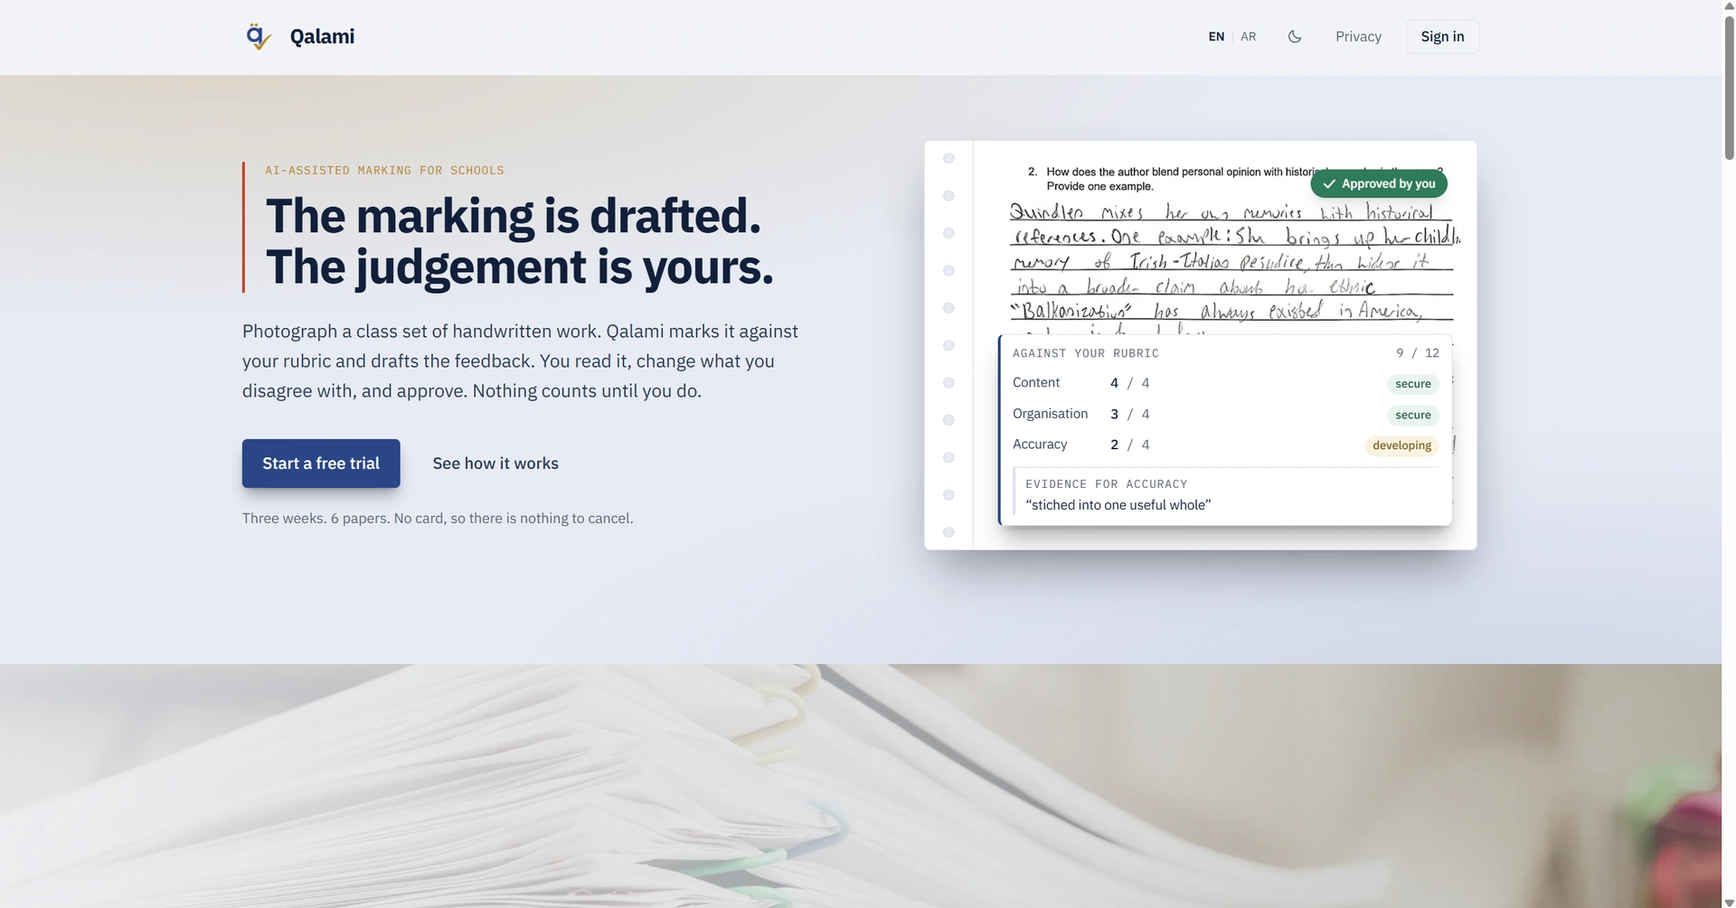
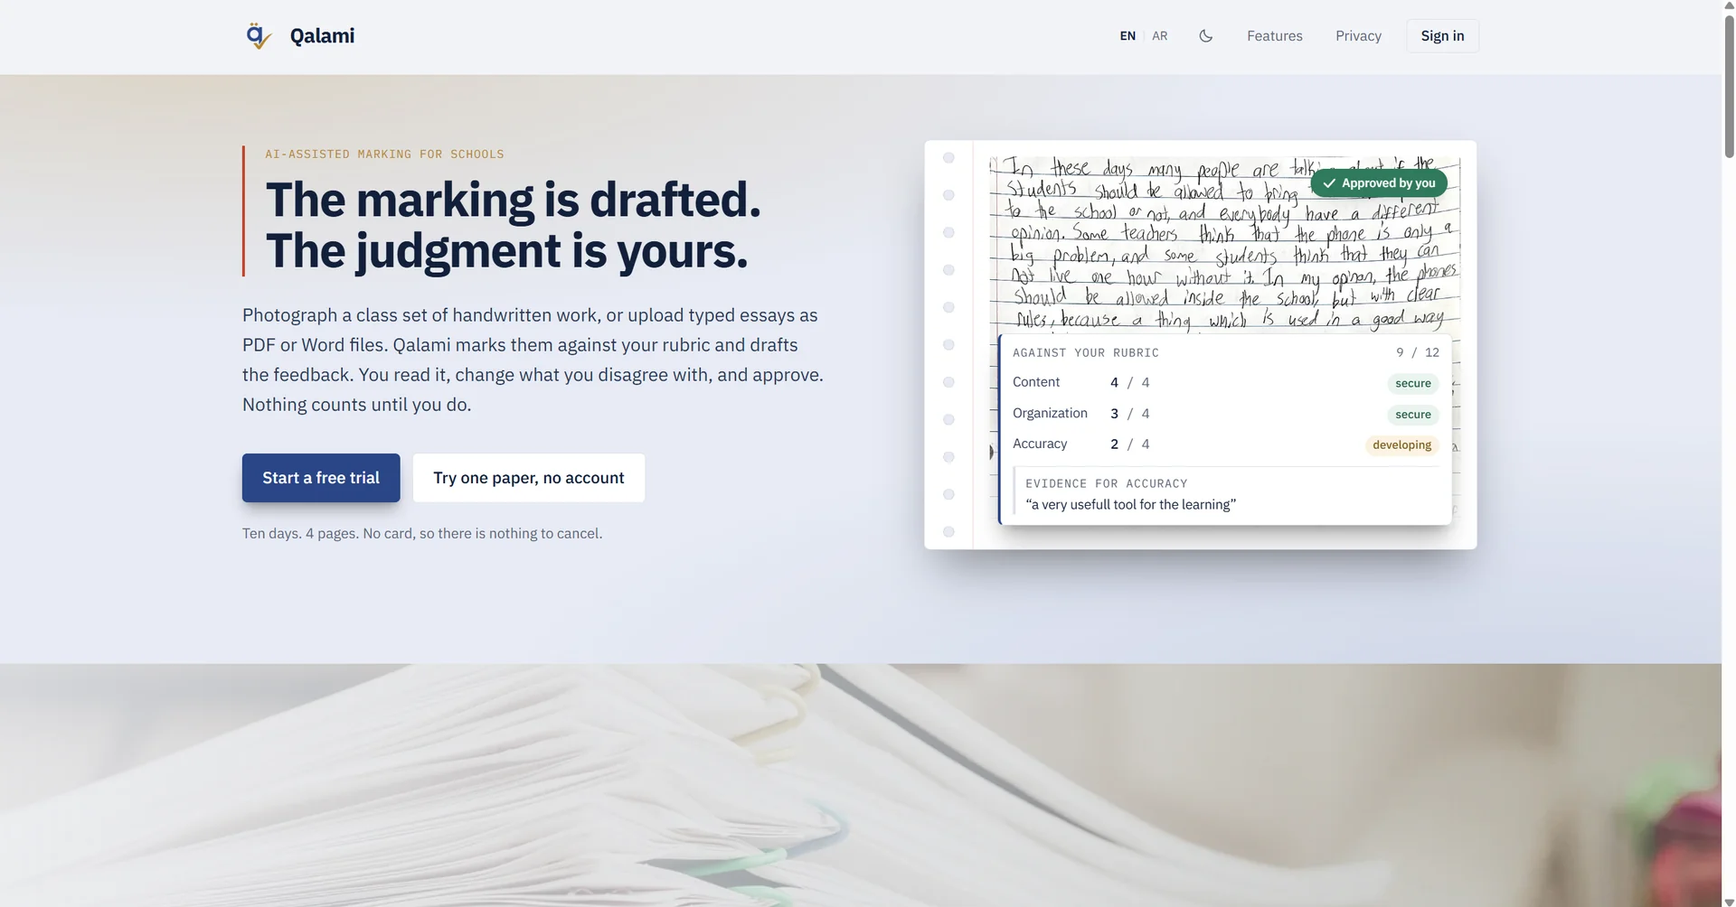
Bring the Qalami write-up up to date with the app, and a new hero image

diff --git a/content/projects/qalami.ar.md b/content/projects/qalami.ar.md
@@ -4,7 +4,7 @@ weight: 1
 discipline: "منتج ذكاء اصطناعي / تعليم"
 summary: "مساعد تصحيح للمعلّمين، بالعربية والإنجليزية. يقرأ أوراق الطلاب المكتوبة بخط اليد ويكتب الدرجة مسودة، ثم يتوقف، لأن قاعدة البيانات لا تسمح لغير معلّم باعتماد درجة نهائيًا."
 platform: "Next.js + Claude API، بُني بـ Claude Code"
-stack: "Next.js 16, React 19, Supabase (Postgres, Auth, Row Level Security, Storage), Claude API, TypeScript, Railway, Resend"
+stack: "Next.js 16, React 19, Supabase (Postgres, Auth, Row Level Security, Storage), Claude API, TypeScript, Railway, Paddle, Resend"
 demo: "https://qalamiapp.com"
 demo_label: "زُر qalamiapp.com ←"
 repo: ""
@@ -15,13 +15,17 @@ hero_image: "images/qalami-hero.webp"
 
 يصحّح قلمي أوراق الطلاب المكتوبة بخط اليد. يصوّر المعلّم أوراق الصف كلها، فيقرأ قلمي كل ورقة مقابل سلّم التصحيح الخاص بذلك المعلّم، ويكتب درجة مسودة لكل معيار، ويكتب معها الملاحظات. ثم يمرّ المعلّم على المسودة، فيُبقي ما هو صحيح ويغيّر ما ليس كذلك، ويعتمد الورقة. وعلى مستوى صف كامل، هذا يحوّل أمسية تصحيح إلى قراءة مراجِعة.
 
-ويعمل بالعربية وبالإنجليزية، بواجهة تعمل من اليمين إلى اليسار فعلًا، لا واجهة مقلوبة عن الإنجليزية. وبالنسبة للمدارس التي بُني من أجلها، هذه ليست طبقة ترجمة أُضيفت في النهاية، بل هي المنتج نفسه. كل نص، وكل صيغة تاريخ، وكل صيغة جمع مكتوبة مرتين؛ والعربية لا تجمع كما تجمع الإنجليزية، فجملة تعدّ ثلاث أوراق وجملة تعدّ إحدى عشرة ورقة تحتاجان كلمات مختلفة فعلًا. وقد صار عدد هذه النصوص يزيد قليلًا على ألفين، كل واحد منها محفوظ بالإنجليزية والعربية جنبًا إلى جنب، واختبارٌ يُفشل البناء إن عرضت شاشةٌ على المعلّم نصًا إنجليزيًا لا عربية بجانبه.
+ويعمل بالعربية وبالإنجليزية، بواجهة تعمل من اليمين إلى اليسار فعلًا، لا واجهة مقلوبة عن الإنجليزية. وبالنسبة للمدارس التي بُني من أجلها، هذه ليست طبقة ترجمة أُضيفت في النهاية، بل هي المنتج نفسه. كل نص، وكل صيغة تاريخ، وكل صيغة جمع مكتوبة مرتين؛ والعربية لا تجمع كما تجمع الإنجليزية، فجملة تعدّ ثلاث أوراق وجملة تعدّ إحدى عشرة ورقة تحتاجان كلمات مختلفة فعلًا، والواحد والاثنان ليسا رقمين أصلًا بل كلمتان، فيُقال «صفحتان» لا «2 صفحة». وقد صار عدد هذه النصوص يزيد قليلًا على ألفين وستمئة، كل واحد منها محفوظ بالإنجليزية والعربية جنبًا إلى جنب، واختبارٌ يُفشل البناء إن عرضت شاشةٌ على المعلّم نصًا إنجليزيًا لا عربية بجانبه.
 
-وهو أيضًا الشيء الوحيد في هذه الصفحة الذي هو منتج حيّ لا نموذج أوّلي. مرّ مخطّط قاعدة بياناته بخمسين عملية ترحيل (migration)، وكثير من ذلك آلات غير برّاقة تحتاجها المدرسة فعلًا: حسابات تظل تعمل حين يترك معلّم المدرسة، ونسخ ممسوحة ضوئيًا تحذف نفسها بعد مدة محددة، وسجلّ لتقدّم طالب واحد يبقى متماسكًا عبر الفصول الدراسية.
+وهو أيضًا الشيء الوحيد في هذه الصفحة الذي هو منتج حيّ لا نموذج أوّلي. مرّ مخطّط قاعدة بياناته بتسع وخمسين عملية ترحيل (migration)، وكثير من ذلك آلات غير برّاقة تحتاجها المدرسة فعلًا: حسابات تظل تعمل حين يترك معلّم المدرسة، ونسخ ممسوحة ضوئيًا تحذف نفسها بعد مدة محددة، وسجلّ لتقدّم طالب واحد يبقى متماسكًا عبر الفصول الدراسية.
 
 وكانت الجولات الأخيرة عن بقية أسبوع المعلّم أكثر منها عن التصحيح نفسه. فهناك أوراق غلاف عليها رمز QR لكل طالب، فيمكن تصوير أوراق الصف بالهاتف وتذهب كل صفحة إلى الاسم الصحيح، وبنك تعليقات يستطيع المعلّم مشاركته مع مدرسته. ويستطيع مسؤول المدرسة أن يأخذ عيّنة من الأوراق المعتمدة لدى زملائه ليراجعها (moderation)، ويستطيع المعلّم أن يطلب من زميل تصحيحًا ثانيًا مستقلًا (blind second marking) لبضع أوراق. فلا يرى الزميل اسم الطالب ولا الدرجات الأولى حتى يُدخل درجاته هو، لأنني أردت أن يكون الرأي الثاني رأيًا ثانيًا فعلًا، لا ردًّا على الرأي الأول.
 
-> ملاحظة بصراحة: هو لا يقرأ كل كلمة قراءة صحيحة. الخط اليدوي يبقى خطًا يدويًا، وإجابة مُمحاة، أو إجابتان مكتوبتان على سؤال واحد، قد تُربكه. ولهذا ليست قراءة المعلّم للمسودة إجراءً شكليًا: فالتصميم يفترض أن المسودة مخطئة في مواضع قليلة، ويحاول أن يجعل تلك المواضع سهلة العثور عليها. أما خط اليد العربي تحديدًا فقد قسته الآن على أوراق طلاب حقيقية بدل أن أفترضه، وتبيّن أن قراءة الخط لم تكن هي المشكلة، وإن كشف الاختبار ثلاثة أخطاء في مواضع أخرى أُصلحت الآن. ولم يُقَس بعدُ الخط العربي غير المرتّب.
+وكان الأسبوع الأخير من سبتمبر عن إدخال العمل من حيث يوجد أصلًا. فصار المعلّم يستطيع أن يختار أعمال الطلاب من Google Drive أو OneDrive مباشرة، وأن ينقل قائمة صفّه من Google Classroom، وصار الطلاب يستطيعون إرسال صفحاتهم بأنفسهم عبر رابط أو رمز QR خاص بصفّهم. وهذه الأخيرة بُنيت لأول معلّم من خارج المشروع سجّل في قلمي، لأنها كانت أول ما طلبه. ويمكن أيضًا ترك أوراق الصف لتُصحَّح خلال الليل، عبر خدمة الدفعات (batch) لدى Anthropic، وكلفة تشغيلها النصف. ويستهلك المعلّم عدد الصفحات نفسه في الحالتين، ولذلك يصفها التطبيق بأنها أكفأ ولا يقول أبدًا إنها أرخص، لأن التوفير ليس توفيره هو. وصار مسؤول المدرسة يستطيع أن يحدّد حدًّا للصفحات لكل معلّم، بعد أن انتبهتُ إلى أن معلّمًا متحمّسًا واحدًا قد يستهلك الصفحات المشتركة لقسم كامل. وهذا الحد اختياري، ولا يعمل إلا إذا وضعه المسؤول.
+
+وحين صدر نموذج أحدث، قارنته بالنموذج الذي يستخدمه قلمي على الأوراق الحقيقية نفسها قبل أن أغيّر شيئًا. كان تشغيله أرخص، لكنه كان يُسقط أحيانًا معايير من الدرجة كليًا، ويعطي الأوراق العربية درجة أقل بنحو درجة واحدة من ست عشرة، فبقي قلمي على النموذج الذي كان عليه.
+
+> ملاحظة بصراحة: هو لا يقرأ كل كلمة قراءة صحيحة. الخط اليدوي يبقى خطًا يدويًا، وإجابة مُمحاة، أو إجابتان مكتوبتان على سؤال واحد، قد تُربكه. ولهذا ليست قراءة المعلّم للمسودة إجراءً شكليًا: فالتصميم يفترض أن المسودة مخطئة في مواضع قليلة، ويحاول أن يجعل تلك المواضع سهلة العثور عليها. أما خط اليد العربي تحديدًا فقد قسته الآن على أوراق طلاب حقيقية بدل أن أفترضه، وتبيّن أن قراءة الخط لم تكن هي المشكلة، وإن كشف الاختبار ثلاثة أخطاء في مواضع أخرى أُصلحت الآن. أما الخط العربي غير المرتّب فقد قيس مرة واحدة، وجاءت القراءة صحيحة بنسبة 90.5 بالمئة، لكنه كله من كاتب بالغ واحد، وهذا ليس كصفّ من الأطفال.
 
 ## لماذا بنيته بهذه الطريقة
 
@@ -51,4 +55,4 @@ hero_image: "images/qalami-hero.webp"
 
 - **مَن اعتمد الورقة.** سجلّ التغييرات يغطي الدرجات التي عُدِّلت، وأودّ أن يحمل الاعتماد نفسه اسمًا أيضًا، حتى يكتمل السجل في غرفة معلّمين مشتركة.
 - **قراءة من متحدّث أصلي للعربية.** الواجهة العربية مسودة أولى متأنّية، ومرّت بقراءة دقيقة واحدة صحّحت اثنتي عشرة هفوة، أسوؤها جملة عن مدة الاحتفاظ قالت إن نسخ الطلاب *تُمسح* حيث قالت الإنجليزية إنها تُحذف. ولم يراجعها بعدُ قارئ لغته الأم العربية، وإلى أن يحدث ذلك لن أعدّها منتهية.
-- **الخط العربي غير المرتّب.** الأوراق التي قستها كانت مرتّبة إلى حدّ معقول، والخط غير المرتّب هو ما سيقدّمه المعلّم كثيرًا، فهذا هو القياس التالي.
+- **الخط العربي غير المرتّب بأيدٍ أكثر.** القياس الوحيد للخط غير المرتّب جاء من شخص بالغ واحد، وما سيقدّمه المعلّم فعلًا هو خط غير مرتّب من طلاب كثيرين مختلفين، فهذا هو القياس التالي.

diff --git a/content/projects/qalami.md b/content/projects/qalami.md
@@ -4,7 +4,7 @@ weight: 1
 discipline: "AI Product / Education"
 summary: "A marking assistant for teachers, in Arabic and English. It reads handwritten schoolwork and drafts a mark, and then it stops, because the database will not let a mark be finalised by anything other than a teacher."
 platform: "Next.js + Claude API, built with Claude Code"
-stack: "Next.js 16, React 19, Supabase (Postgres, Auth, Row Level Security, Storage), Claude API, TypeScript, Railway, Resend"
+stack: "Next.js 16, React 19, Supabase (Postgres, Auth, Row Level Security, Storage), Claude API, TypeScript, Railway, Paddle, Resend"
 demo: "https://qalamiapp.com"
 demo_label: "Visit qalamiapp.com →"
 repo: ""
@@ -15,13 +15,17 @@ hero_image: "images/qalami-hero.webp"
 
 Qalami marks handwritten schoolwork. A teacher photographs a class set, and it reads each page against that teacher's own rubric, drafts a mark for every criterion, and writes the feedback to go with it. The teacher then works through the draft, keeping what is right and changing what is not, and approves the paper. Across a class that turns an evening of marking into a read-through.
 
-It runs in Arabic and in English, with a proper right-to-left interface rather than a mirrored one. For the schools this is built for that is not a translation layer added at the end, it is the product. Every string, every date format and every plural form is written twice, and Arabic does not pluralise the way English does, so a sentence counting three papers and a sentence counting eleven need genuinely different words. There are a little over two thousand of those strings now, each held in English and Arabic side by side, and a test fails the build if a screen shows a teacher English that has no Arabic beside it.
+It runs in Arabic and in English, with a proper right-to-left interface rather than a mirrored one. For the schools this is built for that is not a translation layer added at the end, it is the product. Every string, every date format and every plural form is written twice, and Arabic does not pluralise the way English does, so a sentence counting three papers and a sentence counting eleven need genuinely different words, and one and two are not numbers at all but words of their own, so two pages is صفحتان and never a numeral beside the word for page. There are a little over two thousand six hundred of those strings now, each held in English and Arabic side by side, and a test fails the build if a screen shows a teacher English that has no Arabic beside it.
 
-It is also the only thing on this page that is a live product rather than a prototype. The schema has been through fifty migrations, and a lot of that is the unglamorous machinery a school actually needs: accounts that keep working when a teacher leaves, uploaded scans that delete themselves on a clock, and a record of one pupil's progress that holds together across terms.
+It is also the only thing on this page that is a live product rather than a prototype. The schema has been through fifty-nine migrations, and a lot of that is the unglamorous machinery a school actually needs: accounts that keep working when a teacher leaves, uploaded scans that delete themselves on a clock, and a record of one pupil's progress that holds together across terms.
 
 The most recent rounds were about the rest of a teacher's week rather than the marking itself. There are cover sheets with a QR code for each pupil, so a class set can be photographed from a phone and the pages land against the right names, and a comment bank a teacher can share with their school. The school's admin can take a sample of colleagues' approved papers to moderate, and a teacher can ask a colleague to second-mark a few blind. The colleague sees neither the pupil's name nor the first marks until their own are in, because I wanted the second opinion to be a second opinion and not a reply to the first one.
 
-> One honest note: it does not read every word correctly. Handwriting is handwriting, and a rubbed-out answer, or two answers written against one question, will still confuse it. That is why the teacher's read-through is not ceremonial. The design assumes the draft is wrong in a few places and tries to make those places cheap to find. Arabic handwriting in particular I have now measured on real pupils' pages rather than assumed, and reading the script turned out not to be the problem, although the testing found three defects elsewhere that are now fixed. Messy Arabic handwriting is still unmeasured.
+The last week of September was about getting work in from where it already lives. A teacher can now pick pupils' work straight out of Google Drive or OneDrive and bring a class list over from Google Classroom, and pupils can send their own pages through a link or a QR code for their class. That last one was built for the first teacher from outside the project to sign up, because it was the first thing they asked for. A class set can also be left to mark overnight, through Anthropic's batch service, which costs half as much to run. The teacher spends the same pages either way, so the app calls it more efficient and never cheaper, since the saving is not theirs. And a school's admin can now set a page limit for each teacher, after I noticed that one keen teacher could use up a whole department's shared pages. It is optional, and off unless the admin sets it.
+
+When a newer model came out I ran it against the one Qalami uses, on the same real papers, before changing anything. It was cheaper to run, but now and then it left criteria out of a mark altogether, and it marked the Arabic papers about a mark lower out of sixteen, so Qalami stayed on the model it had.
+
+> One honest note: it does not read every word correctly. Handwriting is handwriting, and a rubbed-out answer, or two answers written against one question, will still confuse it. That is why the teacher's read-through is not ceremonial. The design assumes the draft is wrong in a few places and tries to make those places cheap to find. Arabic handwriting in particular I have now measured on real pupils' pages rather than assumed, and reading the script turned out not to be the problem, although the testing found three defects elsewhere that are now fixed. Messy Arabic handwriting has been measured once, and the transcription came out 90.5 per cent right, but all of it came from one adult writer, which is not the same thing as a class of children.
 
 ## Why I built it this way
 
@@ -51,4 +55,4 @@ Part of that has since been built. When a teacher changes a mark, a log now reco
 
 - **Who approved a paper.** The change log covers marks that were altered, and I would like the approval itself to carry a name too, so that the record is complete in a shared staffroom.
 - **A native read of the Arabic.** The Arabic interface is a careful first draft and has had one close reading, which corrected twelve slips, the worst a retention sentence that said pupils' scans are *wiped* where the English said deleted. A native reviewer has still not been through it, and until one has I would not call it finished.
-- **Messy Arabic handwriting.** The pages I measured were reasonably tidy, and untidy writing is what a teacher will often hand it, so that is the next measurement.
+- **Messy Arabic handwriting from more hands.** The one messy measurement came from a single adult, and untidy writing from many different pupils is what a teacher will actually hand it, so that is the next measurement.
